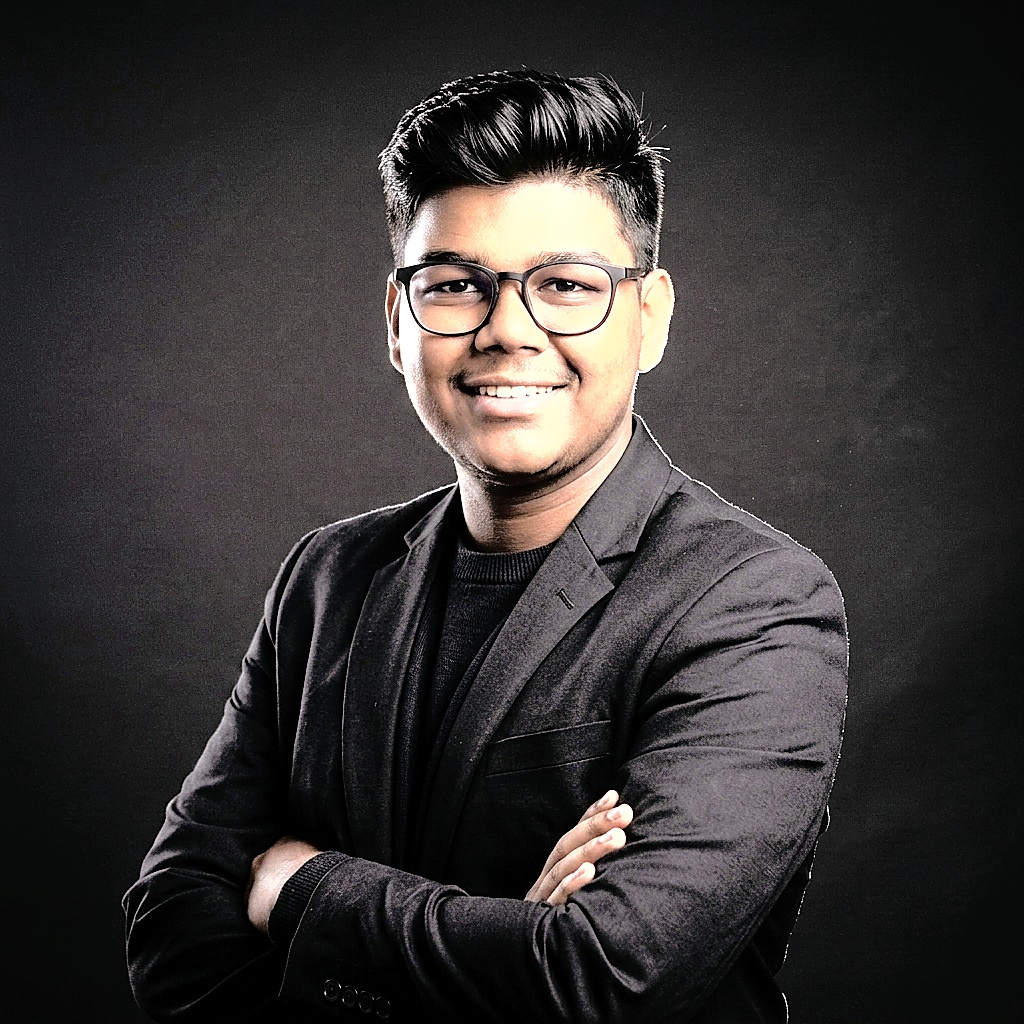
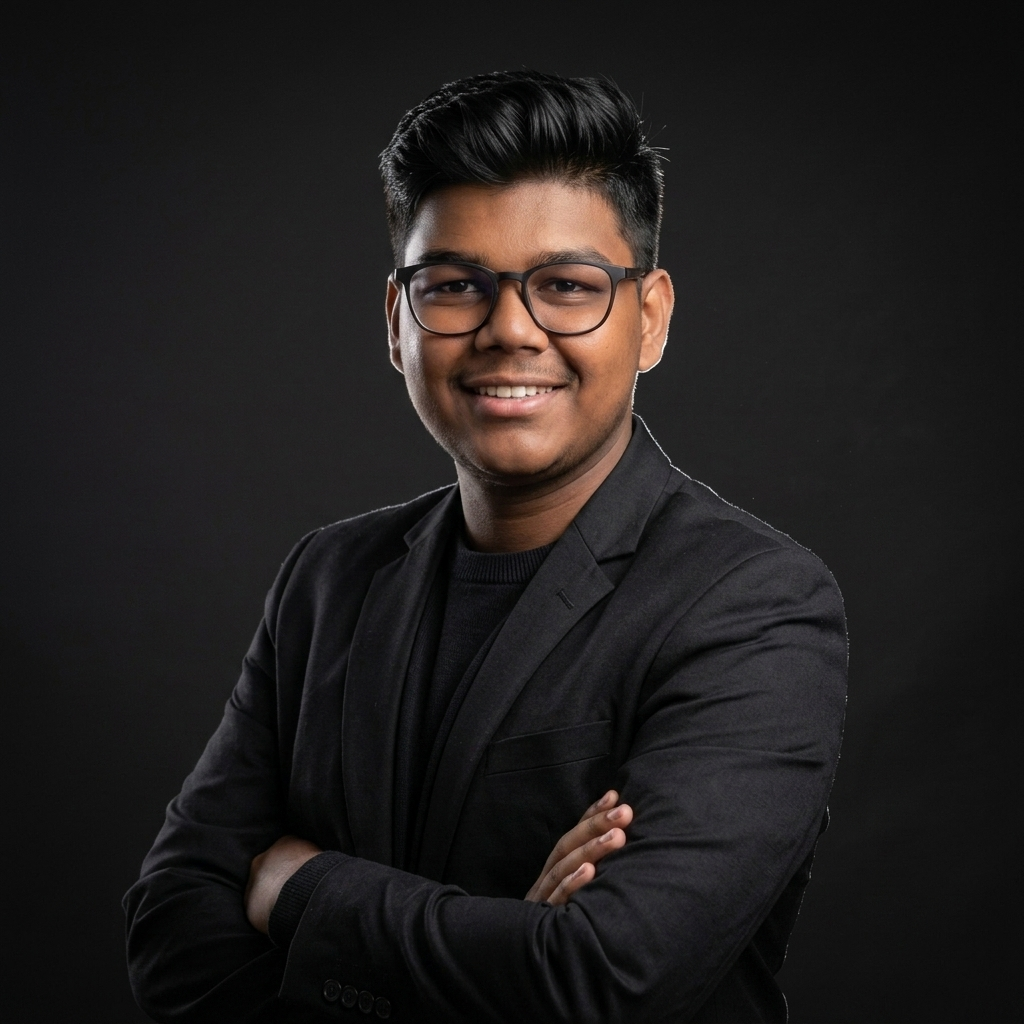
revert: restore original photos and overlay

diff --git a/app.js b/app.js
@@ -469,16 +469,14 @@ document.addEventListener('DOMContentLoaded', () => {
 
     let resolvedCount = null;
 
-    // 3. Try Primary High-Speed API (Abacus - <500ms edge latency)
+    // 3. Try Primary API (CountAPI)
     try {
       const controller = new AbortController();
-      const timeoutId = setTimeout(() => controller.abort(), 3500);
+      const timeoutId = setTimeout(() => controller.abort(), 4000);
 
-      const abacusUrl = action === 'hit'
-        ? `https://abacus.jasoncameron.dev/hit/aryanshaw.dev/portfolio`
-        : `https://abacus.jasoncameron.dev/get/aryanshaw.dev/portfolio`;
-
-      const res = await fetch(abacusUrl, { signal: controller.signal });
+      const res = await fetch(`https://countapi.mileshilliard.com/api/v1/${action}/${NAMESPACE}`, {
+        signal: controller.signal
+      });
       clearTimeout(timeoutId);
 
       if (res.ok) {
@@ -490,15 +488,17 @@ document.addEventListener('DOMContentLoaded', () => {
       // Primary API timed out or unreachable
     }
 
-    // 4. Try Secondary Backup API (CountAPI) if primary didn't resolve
+    // 4. Try Secondary Backup API (Abacus) if primary didn't resolve
     if (resolvedCount === null) {
       try {
         const controller2 = new AbortController();
         const timeoutId2 = setTimeout(() => controller2.abort(), 4000);
 
-        const res2 = await fetch(`https://countapi.mileshilliard.com/api/v1/${action}/${NAMESPACE}`, {
-          signal: controller2.signal
-        });
+        const abacusUrl = action === 'hit'
+          ? `https://abacus.jasoncameron.dev/hit/aryanshaw.dev/portfolio`
+          : `https://abacus.jasoncameron.dev/get/aryanshaw.dev/portfolio`;
+
+        const res2 = await fetch(abacusUrl, { signal: controller2.signal });
         clearTimeout(timeoutId2);
 
         if (res2.ok) {

diff --git a/index.html b/index.html
@@ -598,8 +598,7 @@
                 class="pose-slide absolute inset-0 w-full h-full object-cover object-top opacity-0 scale-95 transition-all duration-700 ease-out pointer-events-none"
               />
 
-              <!-- Subtle bottom shade only for text pill readability (Face remains 100% bright & clear) -->
-              <div class="absolute inset-x-0 bottom-0 h-1/3 bg-gradient-to-t from-black/80 via-black/20 to-transparent pointer-events-none"></div>
+              <div class="absolute inset-0 bg-gradient-to-t from-black via-black/20 to-transparent pointer-events-none"></div>
 
               <!-- Floating Bottom Identity Pill -->
               <div class="absolute bottom-3 left-3 right-3 p-3.5 rounded-xl bg-black/85 backdrop-blur-md border border-white/20 font-mono text-xs flex items-center justify-between pointer-events-none shadow-xl z-20">
